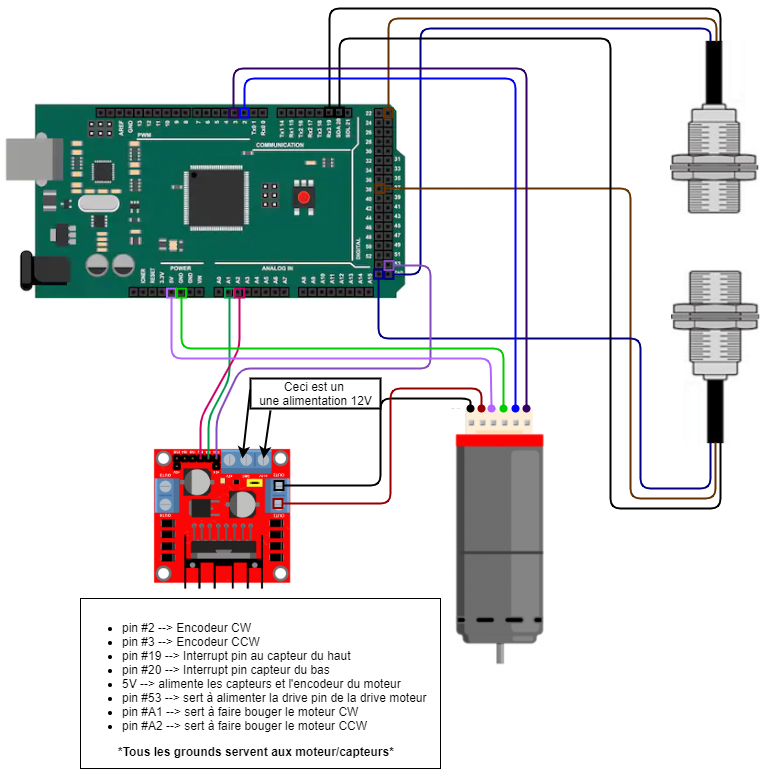
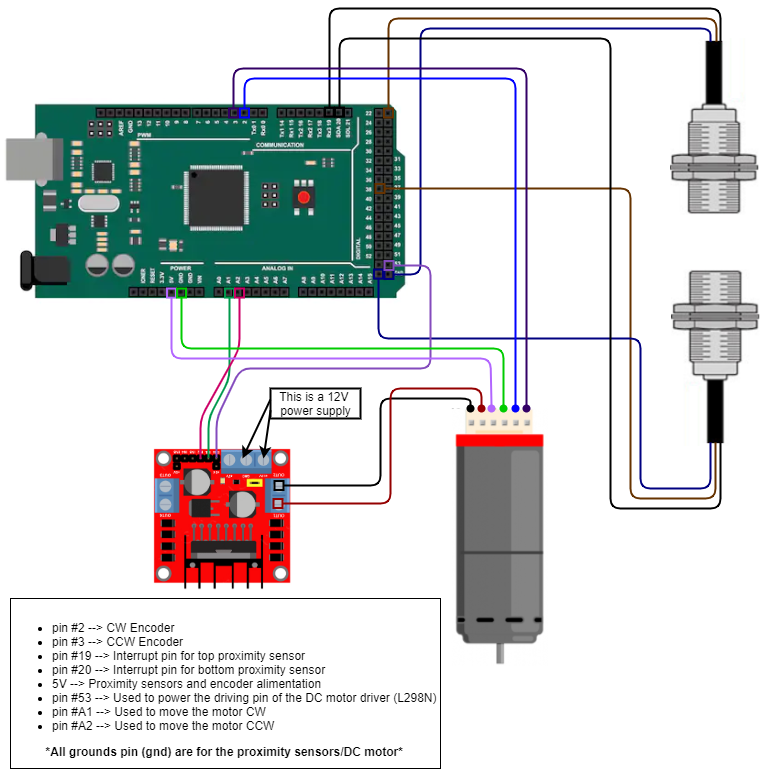
Readme modifications
Fixed some links and modified documentation language.

Changed region(s): [[0.0, 0.8114, 0.575, 1.0], [0.3026, 0.4681, 0.5145, 0.593]]

diff --git a/README.md b/README.md
@@ -66,14 +66,14 @@ All software documentation can be viewed [here](https://jeremiebourque1.github.i
 ## Hardware documentation
 ### Robotic arm prototype
 The bill of materials for the robot arm prototype can be viewed [here](https://github.com/JeremieBourque1/projetS4/blob/master/BOM_proto.xlsx?raw=true)
+* OpenCR documentation can be viewed [here](https://github.com/JeremieBourque1/projetS4/blob/master/electronic/OpenCR/robotis-opencr10-cortex-microcontroller-ros-datasheet.pdf)
 ### Robotic arm shell
 Everything concerning the arm shell can be found [here](https://github.com/JeremieBourque1/projetS4/tree/master/Arm%20Shell)
 ### Vertical axis
-* DC driver L298N documentation can be viewed [here](https://jeremiebourque1.github.io/projetS4/electronic/DC motor drive)
-* Twidec NJK-5002J Inductive limit switch documentation can be viewed [here](https://jeremiebourque1.github.io/projetS4/electronic/Limit switch)
-* Cytron 12v DC motor documentation can be viewed [here](https://jeremiebourque1.github.io/projetS4/electronic/Cytron DC motor)
-* OpenCR documentation can be viewed [here] (https://jeremiebourque1.github.io/projetS4/electronic/OpenCR)
-For wiring images using arduino mega2560 : ![Image of the wiring](https://jeremiebourque1.github.com/images/arduino montage)
+* DC driver L298N documentation can be viewed [here](https://github.com/JeremieBourque1/projetS4/blob/master/electronic/DC%20motor%20drive/L298N%20Motor%20Driver.pdf)
+* Twidec NJK-5002J Inductive limit switch documentation can be viewed [here](https://github.com/JeremieBourque1/projetS4/blob/master/electronic/Limit%20switch/Twidec%20NJK-5002C%20SpecSheet.pdf)
+* Cytron 12v DC motor documentation can be viewed [here](https://github.com/JeremieBourque1/projetS4/tree/master/electronic/Cytron%20DC%20motor)
+For wiring images using arduino mega2560 : ![Image of the wiring](https://github.com/JeremieBourque1/projetS4/blob/master/images/arduino%20montage.png)
 
 ## Unit tests
 The application is tested using the unittest python module. To run the tests, open a command prompt, change the directory to the project’s directory and run this command: `python -m unittest discover`
